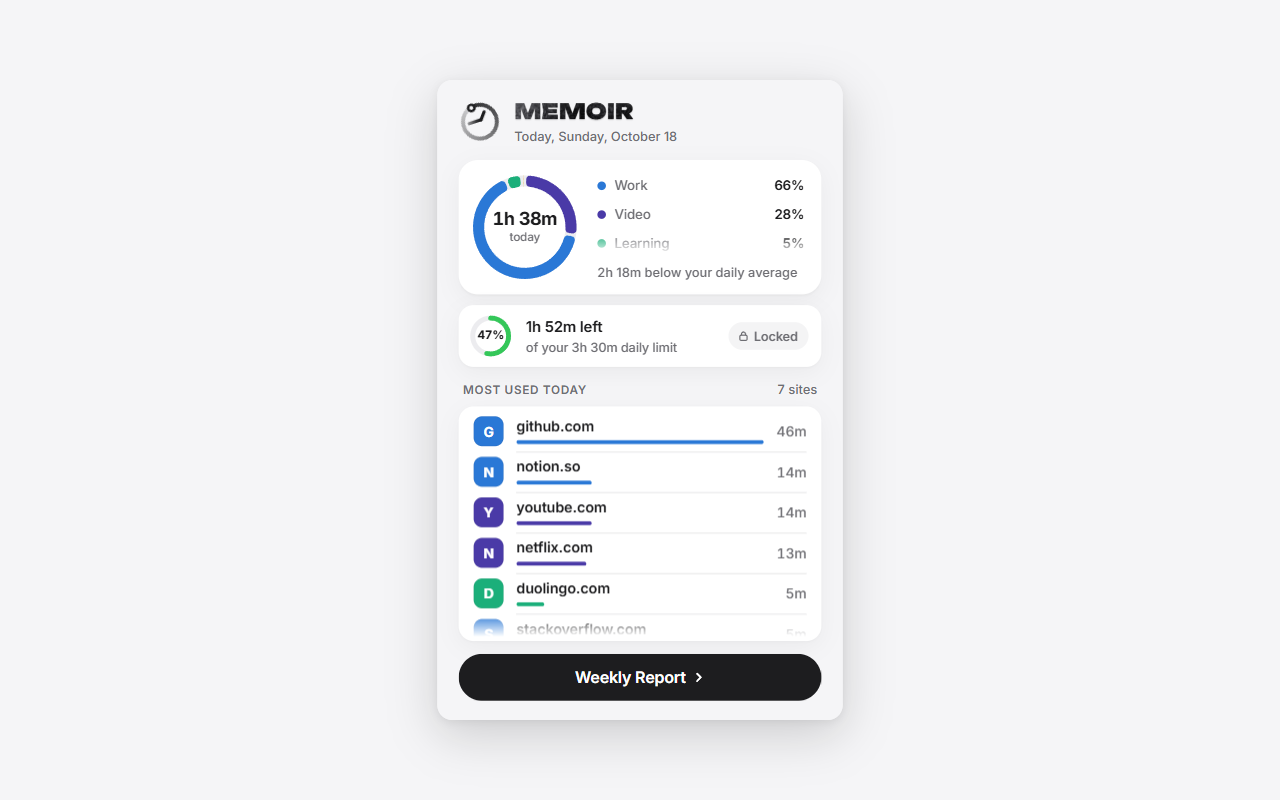
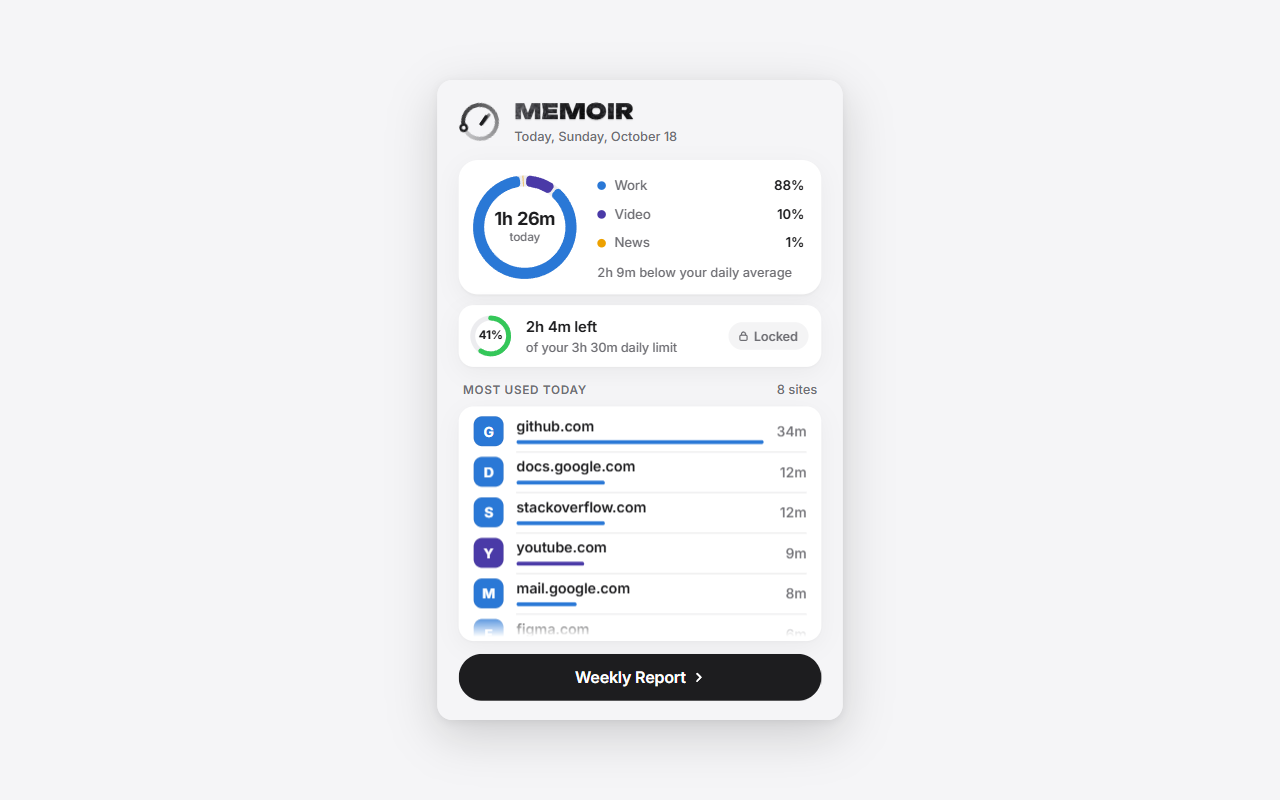
Store images: a day, the limit's ring and Trend over time up close, instead of the report four times

diff --git a/store/chrome-web-store-listing.md b/store/chrome-web-store-listing.md
@@ -62,27 +62,28 @@ Two lines to add when they're true (not yet):
 | Asset | Size | Status |
 |---|---|---|
 | Store icon | 128 × 128 PNG | `icons/icon128.png` |
-| Screenshots | 1280 × 800 PNG, 1 to 5 | `images/1-report.png` … `5-report-dark.png` |
+| Screenshots | 1280 × 800 PNG, 1 to 5 | `images/1-report.png` … `5-trend-dark.png` |
 | Small promo tile | 440 × 280 PNG | `images/promo-440x280.png` |
 | Marquee promo tile | 1400 × 560 PNG | optional, only used if Google features the item |
 
-`node store/shots.cjs` makes them all again from the current pages (run it after any visible change):
+`node store/shots.cjs` makes them all again from the current pages (run it after any visible change). Two
+show the whole thing, three come up close on one feature each, so they don't all look like the report:
 1. The Weekly Report: the whole week on one screen.
 2. The popup: today at a click (`frame.html`: the popup at 1.2 ×, on the report's background).
-3. A day opened from Daily activity (the week's busiest): its hours and its sites.
-4. The daily limit's ring, being set to 3 h 30 m.
-5. The Weekly Report in Dark.
+3. Up close: a day opened from Daily activity (the week's busiest), its hours and its sites; the card on its own.
+4. Up close: the daily limit's ring, being set to 3 h 30 m, over the dimmed report.
+5. Up close, on Dark: Trend over time, 24 weeks, sloping down; the card on its own.
 
 The promo tile is `tile.html`: the clock at 10:10 and MEMOIR on Dark, with "Where your browsing time goes".
 
 Rules for every image:
-- **Inter, never SF Pro** (the owner's choice, 2026-10-18). The owner's PC has SF Pro installed and Memoir's
-  font list names it first, but its licence covers Apple platforms only. The script swaps the page font for
-  Inter (`fonts/InterVariable.ttf`, Open Font License, from rsms/inter v4.1); Memoir itself is unchanged.
+- **Inter, never SF Pro** (the owner's choice, 2026-10-18). Memoir uses Inter everywhere but on a Mac; the
+  script sets Memoir's own Inter on every page, so the images are the same wherever they're made.
 - **The clock** shows as in the app, **the Rainbow clock** stays off (the owner's yes, 2026-10-18).
-- **No personal history:** a made-up fortnight (about 3 h a day, a 3 h 30 m limit) and nothing of the shoot
-  itself is tracked.
-- Pages laid out at 1440 × 900 and drawn at 1280 × 800 by Chrome itself, so text stays sharp.
+- **No personal history:** half a year made up (about 3 h a day by now, more further back, a 3 h 30 m limit),
+  and nothing of the shoot itself is tracked.
+- Pages laid out at 1440 × 900 and drawn at exactly 1280 × 800 by Chrome itself, close-ups at a larger scale,
+  so text stays sharp.
 
 ## Contact and links
 

diff --git a/HANDOFF.md b/HANDOFF.md
@@ -551,7 +551,8 @@ also balances Settings' columns (measured 542 / 533 px).
 ## Store listing (`store/`)
 The Web Store's words (`chrome-web-store-listing.md`, `chrome-web-store-privacy.md`) and images (`images/`).
 `node store/shots.cjs` remakes the five screenshots and the promo tile from the current pages, in Inter (never
-SF Pro: see the listing file), with made-up data. `frame.html`, `tile.html` and `fonts/` serve only that script;
+SF Pro: see the listing file), with made-up data: the week and the popup whole, then a day, the limit's ring and
+Trend over time (Dark) up close. `frame.html` and `tile.html` serve only that script;
 `store/` is left out of the package.
 
 ## Known notes
